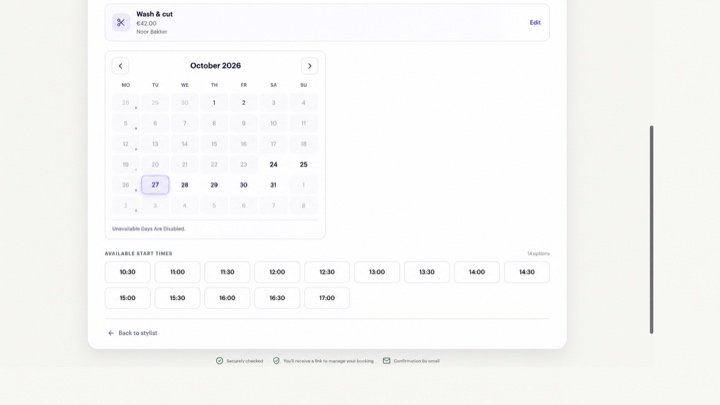
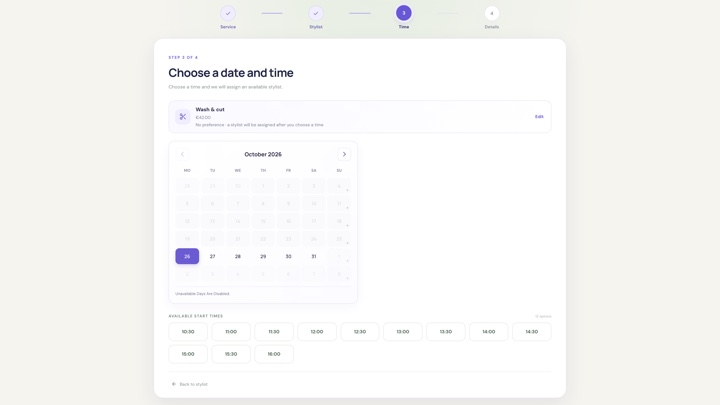
Refresh Saluun booking flow screenshots

diff --git a/saluun/nl/index.html b/saluun/nl/index.html
@@ -20,7 +20,7 @@
   <link rel="icon" href="../../assets/branding/favicon.svg" type="image/svg+xml" sizes="any">
   <link rel="icon" href="../../assets/branding/favicon-32.png" type="image/png" sizes="32x32">
   <link rel="apple-touch-icon" href="../../assets/branding/apple-touch-icon.png">
-  <link rel="stylesheet" href="../../assets/site.css?v=20261024-saluun-booking-sharpness">
+  <link rel="stylesheet" href="../../assets/site.css?v=20261025-saluun-desktop-shots">
   <link rel="stylesheet" href="../../assets/consent.css?v=20261023-analytics-consent">
   <title>Saluun | Online afspraken voor kapsalons | Lunava Software</title>
   <script>document.documentElement.classList.add('js');</script>
@@ -92,29 +92,29 @@
       <div class="saluun-gallery saluun-booking-gallery">
         <figure class="saluun-shot">
           <picture>
-            <source type="image/webp" srcset="../../assets/screens/saluun/booking-services-720.webp?v=20261024-saluun-booking-sharpness 720w, ../../assets/screens/saluun/booking-services.webp?v=20261024-saluun-booking-sharpness 1672w" sizes="(max-width: 620px) calc(100vw - 36px), (max-width: 900px) calc((100vw - 60px) / 2), 540px">
-            <img src="../../assets/screens/saluun/booking-services.jpg?v=20261024-saluun-booking-sharpness" srcset="../../assets/screens/saluun/booking-services-720.jpg?v=20261024-saluun-booking-sharpness 720w, ../../assets/screens/saluun/booking-services.jpg?v=20261024-saluun-booking-sharpness 1672w" sizes="(max-width: 620px) calc(100vw - 36px), (max-width: 900px) calc((100vw - 60px) / 2), 540px" alt="Online boekingsstap met behandelingen, omschrijvingen, categorieën en prijzen van Studio Noord" width="1672" height="941" loading="lazy" decoding="async">
+            <source type="image/webp" srcset="../../assets/screens/saluun/booking-services-720.webp?v=20261025-saluun-desktop-shots 720w, ../../assets/screens/saluun/booking-services.webp?v=20261025-saluun-desktop-shots 1672w" sizes="(max-width: 620px) calc(100vw - 36px), (max-width: 900px) calc((100vw - 60px) / 2), 540px">
+            <img src="../../assets/screens/saluun/booking-services.jpg?v=20261025-saluun-desktop-shots" srcset="../../assets/screens/saluun/booking-services-720.jpg?v=20261025-saluun-desktop-shots 720w, ../../assets/screens/saluun/booking-services.jpg?v=20261025-saluun-desktop-shots 1672w" sizes="(max-width: 620px) calc(100vw - 36px), (max-width: 900px) calc((100vw - 60px) / 2), 540px" alt="Online boekingsstap met behandelingen, omschrijvingen, categorieën en prijzen van Studio Noord" width="1672" height="941" loading="lazy" decoding="async">
           </picture>
           <figcaption><span>01</span><strong>Kies een behandeling</strong></figcaption>
         </figure>
         <figure class="saluun-shot">
           <picture>
-            <source type="image/webp" srcset="../../assets/screens/saluun/booking-stylists-720.webp?v=20261024-saluun-booking-sharpness 720w, ../../assets/screens/saluun/booking-stylists.webp?v=20261024-saluun-booking-sharpness 1672w" sizes="(max-width: 620px) calc(100vw - 36px), (max-width: 900px) calc((100vw - 60px) / 2), 540px">
-            <img src="../../assets/screens/saluun/booking-stylists.jpg?v=20261024-saluun-booking-sharpness" srcset="../../assets/screens/saluun/booking-stylists-720.jpg?v=20261024-saluun-booking-sharpness 720w, ../../assets/screens/saluun/booking-stylists.jpg?v=20261024-saluun-booking-sharpness 1672w" sizes="(max-width: 620px) calc(100vw - 36px), (max-width: 900px) calc((100vw - 60px) / 2), 540px" alt="Boekingsstap met teamleden Lisa Jansen, Noor Bakker en Sanne de Vries, plus de keuze voor geen voorkeur" width="1672" height="941" loading="lazy" decoding="async">
+            <source type="image/webp" srcset="../../assets/screens/saluun/booking-stylists-720.webp?v=20261025-saluun-desktop-shots 720w, ../../assets/screens/saluun/booking-stylists.webp?v=20261025-saluun-desktop-shots 1672w" sizes="(max-width: 620px) calc(100vw - 36px), (max-width: 900px) calc((100vw - 60px) / 2), 540px">
+            <img src="../../assets/screens/saluun/booking-stylists.jpg?v=20261025-saluun-desktop-shots" srcset="../../assets/screens/saluun/booking-stylists-720.jpg?v=20261025-saluun-desktop-shots 720w, ../../assets/screens/saluun/booking-stylists.jpg?v=20261025-saluun-desktop-shots 1672w" sizes="(max-width: 620px) calc(100vw - 36px), (max-width: 900px) calc((100vw - 60px) / 2), 540px" alt="Boekingsstap met teamleden Lisa Jansen, Noor Bakker en Sanne de Vries, plus de keuze voor geen voorkeur" width="1672" height="941" loading="lazy" decoding="async">
           </picture>
           <figcaption><span>02</span><strong>Kies een kapper</strong></figcaption>
         </figure>
         <figure class="saluun-shot">
           <picture>
-            <source type="image/webp" srcset="../../assets/screens/saluun/booking-times-720.webp?v=20261024-saluun-booking-sharpness 720w, ../../assets/screens/saluun/booking-times.webp?v=20261024-saluun-booking-sharpness 1672w" sizes="(max-width: 620px) calc(100vw - 36px), (max-width: 900px) calc((100vw - 60px) / 2), 540px">
-            <img src="../../assets/screens/saluun/booking-times.jpg?v=20261024-saluun-booking-sharpness" srcset="../../assets/screens/saluun/booking-times-720.jpg?v=20261024-saluun-booking-sharpness 720w, ../../assets/screens/saluun/booking-times.jpg?v=20261024-saluun-booking-sharpness 1672w" sizes="(max-width: 620px) calc(100vw - 36px), (max-width: 900px) calc((100vw - 60px) / 2), 540px" alt="Beschikbaarheidskalender met dinsdag 27 oktober geselecteerd en vrije starttijden voor Wash & cut bij Noor Bakker" width="1672" height="941" loading="lazy" decoding="async">
+            <source type="image/webp" srcset="../../assets/screens/saluun/booking-times-720.webp?v=20261025-saluun-desktop-shots 720w, ../../assets/screens/saluun/booking-times.webp?v=20261025-saluun-desktop-shots 1672w" sizes="(max-width: 620px) calc(100vw - 36px), (max-width: 900px) calc((100vw - 60px) / 2), 540px">
+            <img src="../../assets/screens/saluun/booking-times.jpg?v=20261025-saluun-desktop-shots" srcset="../../assets/screens/saluun/booking-times-720.jpg?v=20261025-saluun-desktop-shots 720w, ../../assets/screens/saluun/booking-times.jpg?v=20261025-saluun-desktop-shots 1672w" sizes="(max-width: 620px) calc(100vw - 36px), (max-width: 900px) calc((100vw - 60px) / 2), 540px" alt="Boekingskalender voor maandag 26 oktober met 12 beschikbare starttijden voor Wash & cut; de kapper wordt na de tijdskeuze toegewezen" width="1672" height="941" loading="lazy" decoding="async">
           </picture>
           <figcaption><span>03</span><strong>Kies een moment</strong></figcaption>
         </figure>
         <figure class="saluun-shot">
           <picture>
-            <source type="image/webp" srcset="../../assets/screens/saluun/booking-details-720.webp?v=20261024-saluun-booking-sharpness 720w, ../../assets/screens/saluun/booking-details.webp?v=20261024-saluun-booking-sharpness 1672w" sizes="(max-width: 620px) calc(100vw - 36px), (max-width: 900px) calc((100vw - 60px) / 2), 540px">
-            <img src="../../assets/screens/saluun/booking-details.jpg?v=20261024-saluun-booking-sharpness" srcset="../../assets/screens/saluun/booking-details-720.jpg?v=20261024-saluun-booking-sharpness 720w, ../../assets/screens/saluun/booking-details.jpg?v=20261024-saluun-booking-sharpness 1672w" sizes="(max-width: 620px) calc(100vw - 36px), (max-width: 900px) calc((100vw - 60px) / 2), 540px" alt="Boekingsstap voor klantgegevens met de gekozen behandeling, afspraak op 27 oktober om 10.30 uur, geen account en betaling in de salon" width="1672" height="941" loading="lazy" decoding="async">
+            <source type="image/webp" srcset="../../assets/screens/saluun/booking-details-720.webp?v=20261025-saluun-desktop-shots 720w, ../../assets/screens/saluun/booking-details.webp?v=20261025-saluun-desktop-shots 1672w" sizes="(max-width: 620px) calc(100vw - 36px), (max-width: 900px) calc((100vw - 60px) / 2), 540px">
+            <img src="../../assets/screens/saluun/booking-details.jpg?v=20261025-saluun-desktop-shots" srcset="../../assets/screens/saluun/booking-details-720.jpg?v=20261025-saluun-desktop-shots 720w, ../../assets/screens/saluun/booking-details.jpg?v=20261025-saluun-desktop-shots 1672w" sizes="(max-width: 620px) calc(100vw - 36px), (max-width: 900px) calc((100vw - 60px) / 2), 540px" alt="Boekingsgegevens voor maandag 26 oktober om 10.30 uur bij Noor Bakker, met contactvelden en de knop om de afspraak te bevestigen" width="1672" height="941" loading="lazy" decoding="async">
           </picture>
           <figcaption><span>04</span><strong>Vul je gegevens in</strong></figcaption>
         </figure>

diff --git a/saluun/index.html b/saluun/index.html
@@ -20,7 +20,7 @@
   <link rel="icon" href="../assets/branding/favicon.svg" type="image/svg+xml" sizes="any">
   <link rel="icon" href="../assets/branding/favicon-32.png" type="image/png" sizes="32x32">
   <link rel="apple-touch-icon" href="../assets/branding/apple-touch-icon.png">
-  <link rel="stylesheet" href="../assets/site.css?v=20261024-saluun-booking-sharpness">
+  <link rel="stylesheet" href="../assets/site.css?v=20261025-saluun-desktop-shots">
   <link rel="stylesheet" href="../assets/consent.css?v=20261023-analytics-consent">
   <title>Saluun | Online booking for hair salons | Lunava Software</title>
   <script>document.documentElement.classList.add('js');</script>
@@ -92,29 +92,29 @@
       <div class="saluun-gallery saluun-booking-gallery">
         <figure class="saluun-shot">
           <picture>
-            <source type="image/webp" srcset="../assets/screens/saluun/booking-services-720.webp?v=20261024-saluun-booking-sharpness 720w, ../assets/screens/saluun/booking-services.webp?v=20261024-saluun-booking-sharpness 1672w" sizes="(max-width: 620px) calc(100vw - 36px), (max-width: 900px) calc((100vw - 60px) / 2), 540px">
-            <img src="../assets/screens/saluun/booking-services.jpg?v=20261024-saluun-booking-sharpness" srcset="../assets/screens/saluun/booking-services-720.jpg?v=20261024-saluun-booking-sharpness 720w, ../assets/screens/saluun/booking-services.jpg?v=20261024-saluun-booking-sharpness 1672w" sizes="(max-width: 620px) calc(100vw - 36px), (max-width: 900px) calc((100vw - 60px) / 2), 540px" alt="Online booking step with services, descriptions, categories and prices at Studio Noord" width="1672" height="941" loading="lazy" decoding="async">
+            <source type="image/webp" srcset="../assets/screens/saluun/booking-services-720.webp?v=20261025-saluun-desktop-shots 720w, ../assets/screens/saluun/booking-services.webp?v=20261025-saluun-desktop-shots 1672w" sizes="(max-width: 620px) calc(100vw - 36px), (max-width: 900px) calc((100vw - 60px) / 2), 540px">
+            <img src="../assets/screens/saluun/booking-services.jpg?v=20261025-saluun-desktop-shots" srcset="../assets/screens/saluun/booking-services-720.jpg?v=20261025-saluun-desktop-shots 720w, ../assets/screens/saluun/booking-services.jpg?v=20261025-saluun-desktop-shots 1672w" sizes="(max-width: 620px) calc(100vw - 36px), (max-width: 900px) calc((100vw - 60px) / 2), 540px" alt="Online booking step with services, descriptions, categories and prices at Studio Noord" width="1672" height="941" loading="lazy" decoding="async">
           </picture>
           <figcaption><span>01</span><strong>Choose a service</strong></figcaption>
         </figure>
         <figure class="saluun-shot">
           <picture>
-            <source type="image/webp" srcset="../assets/screens/saluun/booking-stylists-720.webp?v=20261024-saluun-booking-sharpness 720w, ../assets/screens/saluun/booking-stylists.webp?v=20261024-saluun-booking-sharpness 1672w" sizes="(max-width: 620px) calc(100vw - 36px), (max-width: 900px) calc((100vw - 60px) / 2), 540px">
-            <img src="../assets/screens/saluun/booking-stylists.jpg?v=20261024-saluun-booking-sharpness" srcset="../assets/screens/saluun/booking-stylists-720.jpg?v=20261024-saluun-booking-sharpness 720w, ../assets/screens/saluun/booking-stylists.jpg?v=20261024-saluun-booking-sharpness 1672w" sizes="(max-width: 620px) calc(100vw - 36px), (max-width: 900px) calc((100vw - 60px) / 2), 540px" alt="Stylist selection with Lisa Jansen, Noor Bakker and Sanne de Vries, plus an option to choose no preference" width="1672" height="941" loading="lazy" decoding="async">
+            <source type="image/webp" srcset="../assets/screens/saluun/booking-stylists-720.webp?v=20261025-saluun-desktop-shots 720w, ../assets/screens/saluun/booking-stylists.webp?v=20261025-saluun-desktop-shots 1672w" sizes="(max-width: 620px) calc(100vw - 36px), (max-width: 900px) calc((100vw - 60px) / 2), 540px">
+            <img src="../assets/screens/saluun/booking-stylists.jpg?v=20261025-saluun-desktop-shots" srcset="../assets/screens/saluun/booking-stylists-720.jpg?v=20261025-saluun-desktop-shots 720w, ../assets/screens/saluun/booking-stylists.jpg?v=20261025-saluun-desktop-shots 1672w" sizes="(max-width: 620px) calc(100vw - 36px), (max-width: 900px) calc((100vw - 60px) / 2), 540px" alt="Stylist selection with Lisa Jansen, Noor Bakker and Sanne de Vries, plus an option to choose no preference" width="1672" height="941" loading="lazy" decoding="async">
           </picture>
           <figcaption><span>02</span><strong>Choose a stylist</strong></figcaption>
         </figure>
         <figure class="saluun-shot">
           <picture>
-            <source type="image/webp" srcset="../assets/screens/saluun/booking-times-720.webp?v=20261024-saluun-booking-sharpness 720w, ../assets/screens/saluun/booking-times.webp?v=20261024-saluun-booking-sharpness 1672w" sizes="(max-width: 620px) calc(100vw - 36px), (max-width: 900px) calc((100vw - 60px) / 2), 540px">
-            <img src="../assets/screens/saluun/booking-times.jpg?v=20261024-saluun-booking-sharpness" srcset="../assets/screens/saluun/booking-times-720.jpg?v=20261024-saluun-booking-sharpness 720w, ../assets/screens/saluun/booking-times.jpg?v=20261024-saluun-booking-sharpness 1672w" sizes="(max-width: 620px) calc(100vw - 36px), (max-width: 900px) calc((100vw - 60px) / 2), 540px" alt="Availability calendar with Tuesday, 27 October selected and open start times for Wash & cut with Noor Bakker" width="1672" height="941" loading="lazy" decoding="async">
+            <source type="image/webp" srcset="../assets/screens/saluun/booking-times-720.webp?v=20261025-saluun-desktop-shots 720w, ../assets/screens/saluun/booking-times.webp?v=20261025-saluun-desktop-shots 1672w" sizes="(max-width: 620px) calc(100vw - 36px), (max-width: 900px) calc((100vw - 60px) / 2), 540px">
+            <img src="../assets/screens/saluun/booking-times.jpg?v=20261025-saluun-desktop-shots" srcset="../assets/screens/saluun/booking-times-720.jpg?v=20261025-saluun-desktop-shots 720w, ../assets/screens/saluun/booking-times.jpg?v=20261025-saluun-desktop-shots 1672w" sizes="(max-width: 620px) calc(100vw - 36px), (max-width: 900px) calc((100vw - 60px) / 2), 540px" alt="Booking calendar for Monday, 26 October with 12 available start times for Wash & cut; the stylist is assigned after time selection" width="1672" height="941" loading="lazy" decoding="async">
           </picture>
           <figcaption><span>03</span><strong>Choose a time</strong></figcaption>
         </figure>
         <figure class="saluun-shot">
           <picture>
-            <source type="image/webp" srcset="../assets/screens/saluun/booking-details-720.webp?v=20261024-saluun-booking-sharpness 720w, ../assets/screens/saluun/booking-details.webp?v=20261024-saluun-booking-sharpness 1672w" sizes="(max-width: 620px) calc(100vw - 36px), (max-width: 900px) calc((100vw - 60px) / 2), 540px">
-            <img src="../assets/screens/saluun/booking-details.jpg?v=20261024-saluun-booking-sharpness" srcset="../assets/screens/saluun/booking-details-720.jpg?v=20261024-saluun-booking-sharpness 720w, ../assets/screens/saluun/booking-details.jpg?v=20261024-saluun-booking-sharpness 1672w" sizes="(max-width: 620px) calc(100vw - 36px), (max-width: 900px) calc((100vw - 60px) / 2), 540px" alt="Booking details with the selected service, an appointment on 27 October at 10:30, no account required and payment at the salon" width="1672" height="941" loading="lazy" decoding="async">
+            <source type="image/webp" srcset="../assets/screens/saluun/booking-details-720.webp?v=20261025-saluun-desktop-shots 720w, ../assets/screens/saluun/booking-details.webp?v=20261025-saluun-desktop-shots 1672w" sizes="(max-width: 620px) calc(100vw - 36px), (max-width: 900px) calc((100vw - 60px) / 2), 540px">
+            <img src="../assets/screens/saluun/booking-details.jpg?v=20261025-saluun-desktop-shots" srcset="../assets/screens/saluun/booking-details-720.jpg?v=20261025-saluun-desktop-shots 720w, ../assets/screens/saluun/booking-details.jpg?v=20261025-saluun-desktop-shots 1672w" sizes="(max-width: 620px) calc(100vw - 36px), (max-width: 900px) calc((100vw - 60px) / 2), 540px" alt="Appointment details for Monday, 26 October at 10:30 with Noor Bakker, showing contact fields and the appointment confirmation button" width="1672" height="941" loading="lazy" decoding="async">
           </picture>
           <figcaption><span>04</span><strong>Enter your details</strong></figcaption>
         </figure>
